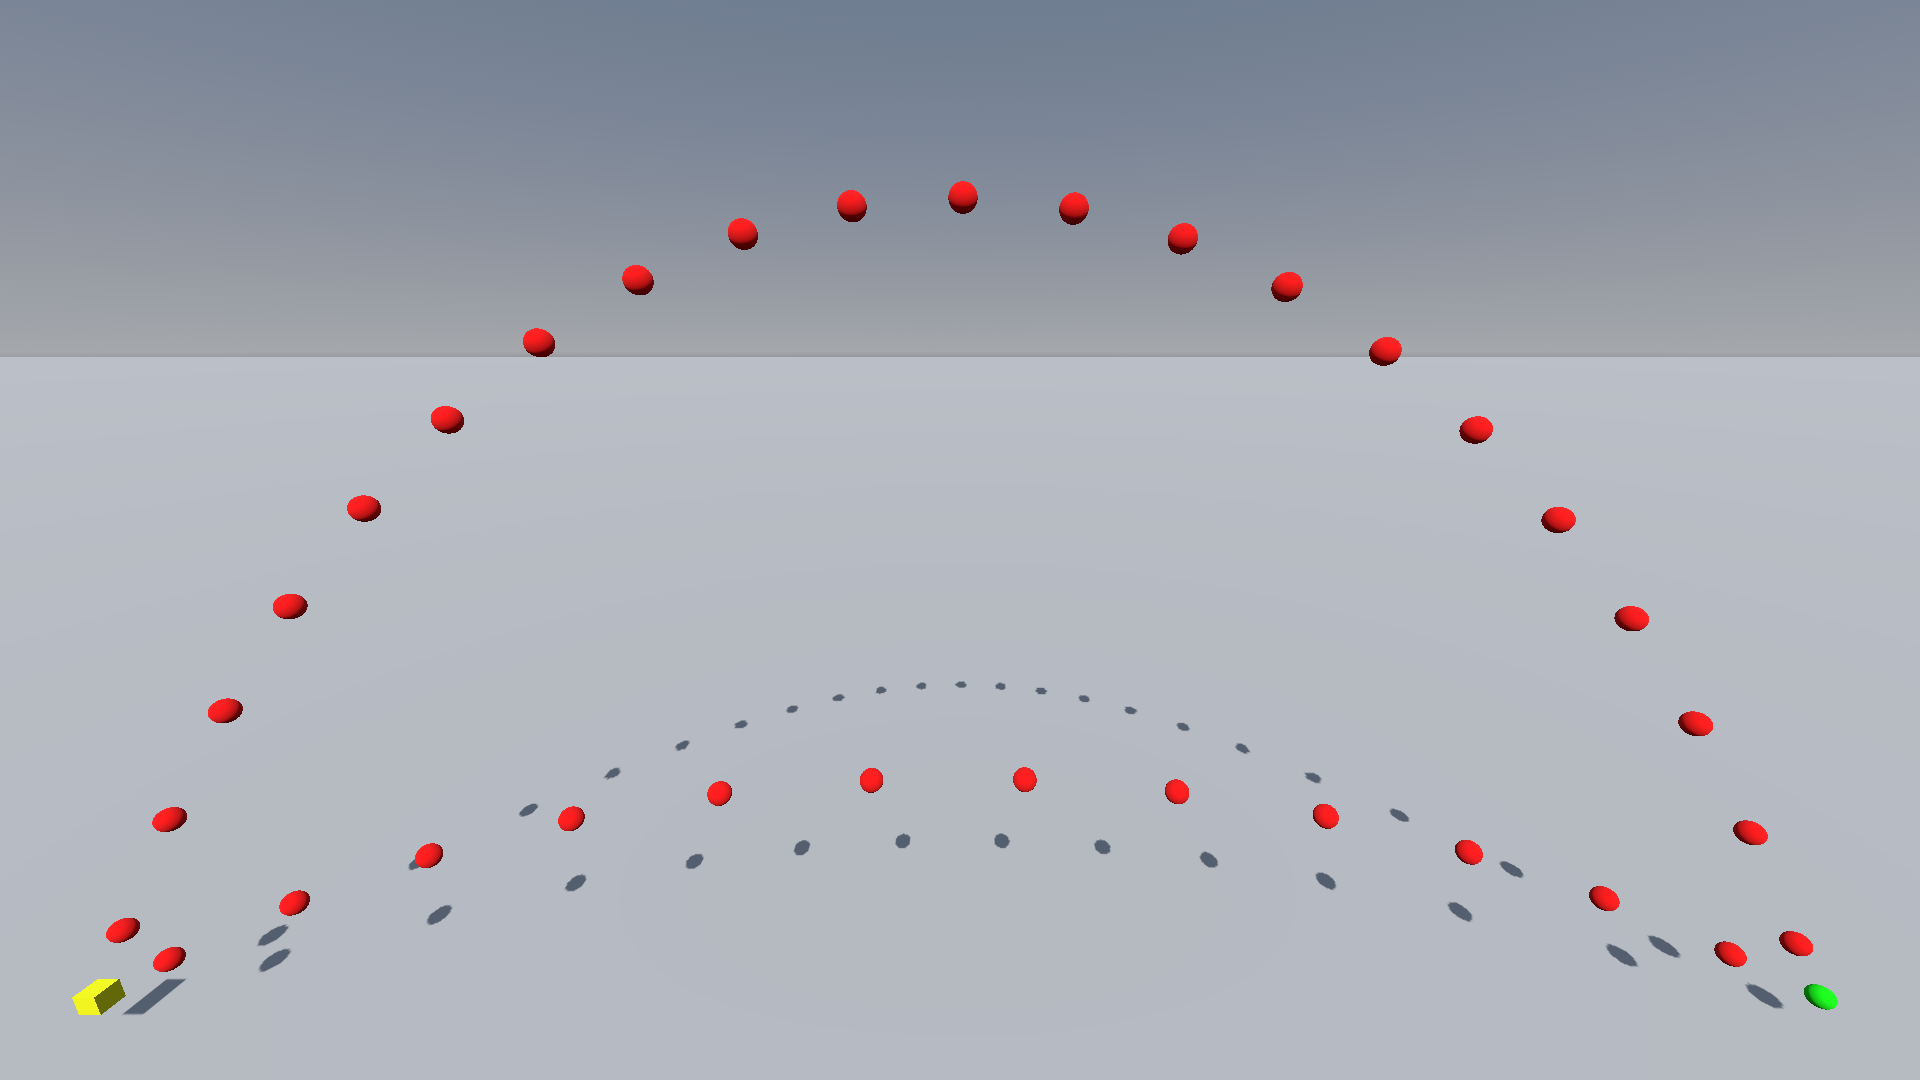
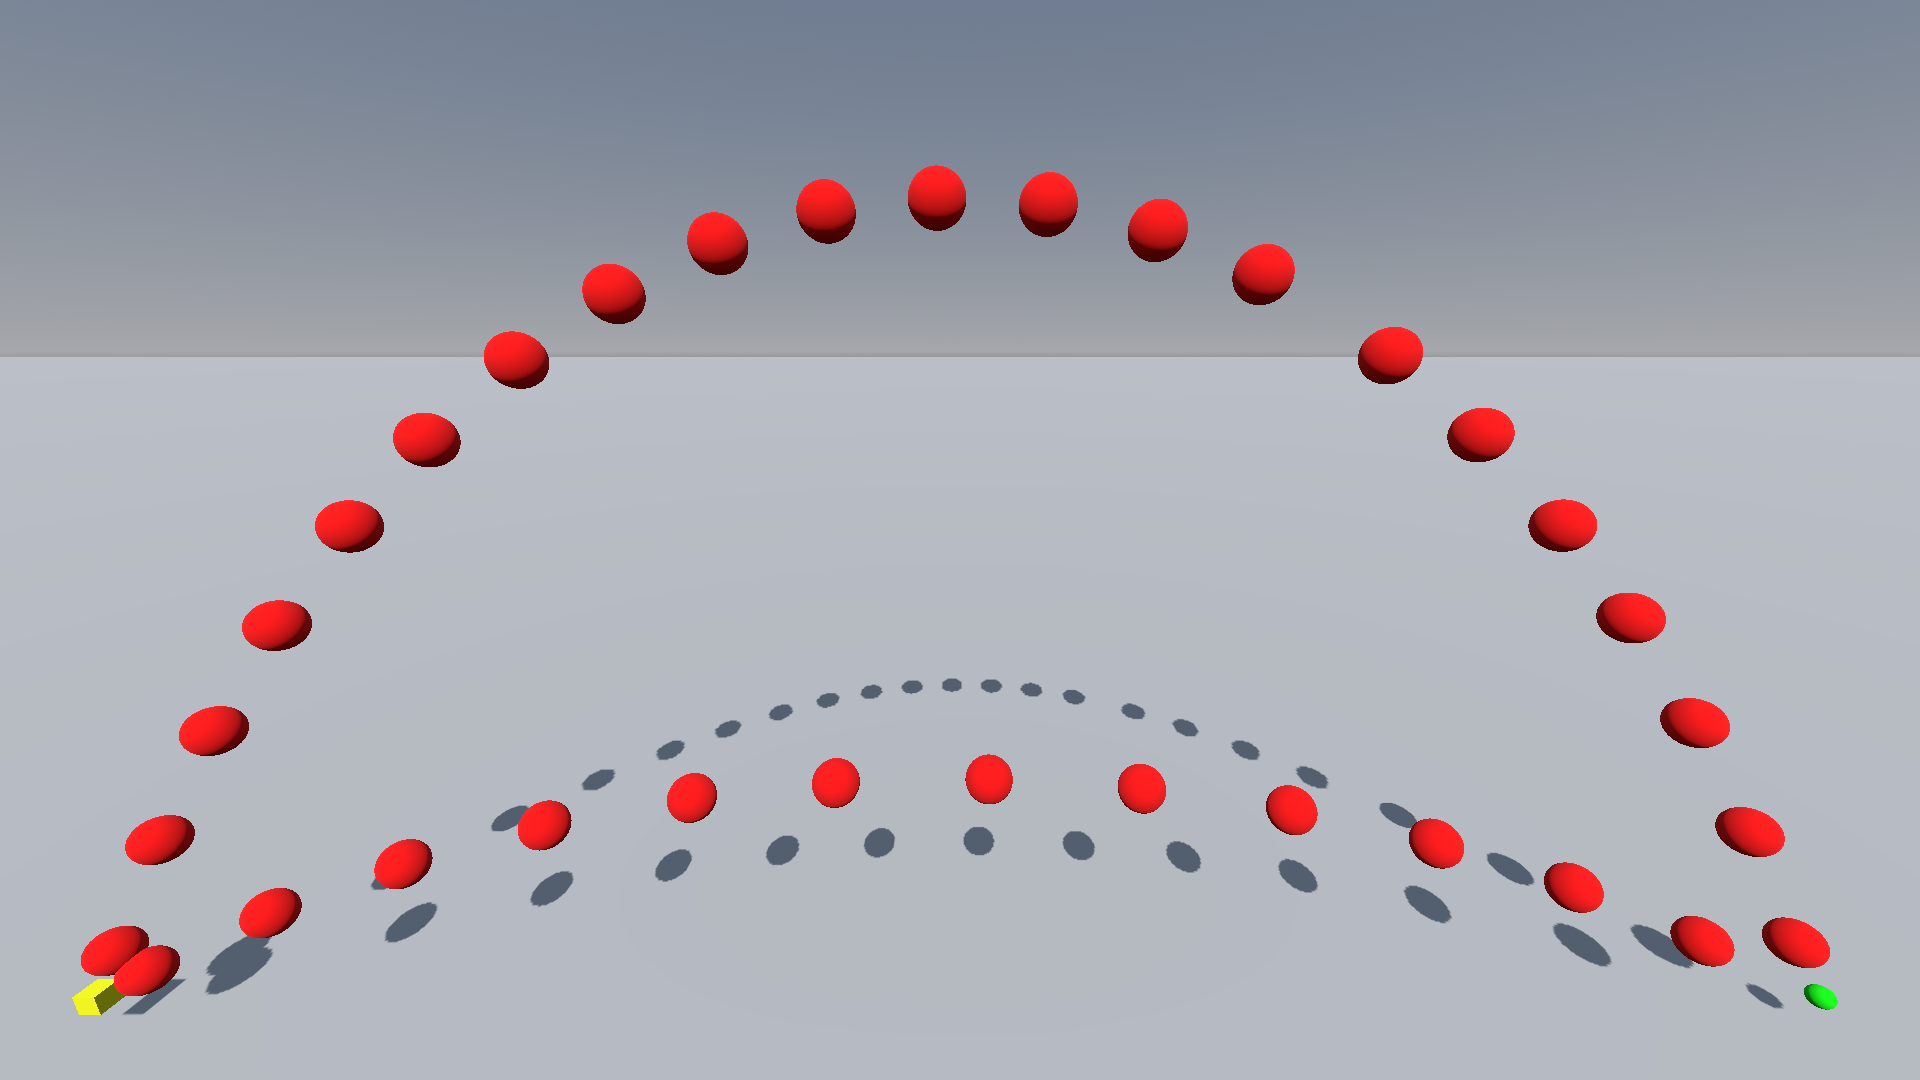
6.0.0

diff --git a/README.md b/README.md
@@ -1,6 +1,5 @@
 # Ballistic Solutions
 
-
 Ballistic solutions for moving targets: interception time, position, and firing velocity, accounting for projectile and target acceleration.
 
 ---
@@ -20,10 +19,9 @@ Ballistic solutions for moving targets: interception time, position, and firing 
 
 ## Download
 
-- [NuGet]()
+- [NuGet Package](https://www.nuget.org/packages/BallisticSolutions)
 - [Asset Store](https://store.godotengine.org/asset/neclor/ballistic-solutions/)
 - [GitHub](https://github.com/neclor/ballistic-solutions)
-- [Asset Library](https://godotengine.org/asset-library/asset/3010)
 
 ---
 